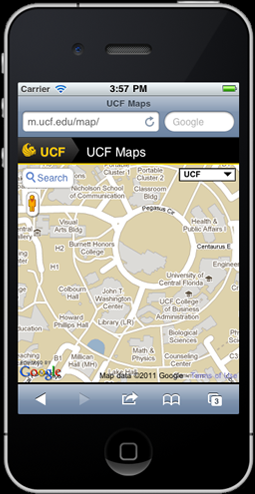
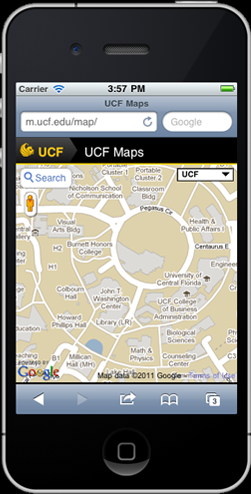
Aligned iphone images to line up verticaly with header text.

diff --git a/future/site/UCF/themes/default/modules/info/css/common.css b/future/site/UCF/themes/default/modules/info/css/common.css
@@ -15,7 +15,7 @@ body{background-color: #000; color: #fff; font-family: "Georgia", "serif"; font-
 #content #left p{font-weight: 100;}
 #content #left p a{color: #ffc907; text-decoration: underline;}
 #content #left h2{font-size: 15px; color: #fff; font-weight: 600; letter-spacing: 1px; font-family: "Helvetica", "sans-serif";}
-#content #right img{}
+#content #right img{margin: 0 0 0 19px;}
 #content #right .caption{font-size: 15px; font-family: "Helvetica", "sans-serif"; font-weight: 600; text-align: center;}
 #content #right .row{margin-bottom: 40px;}
 #content #right .col{}
